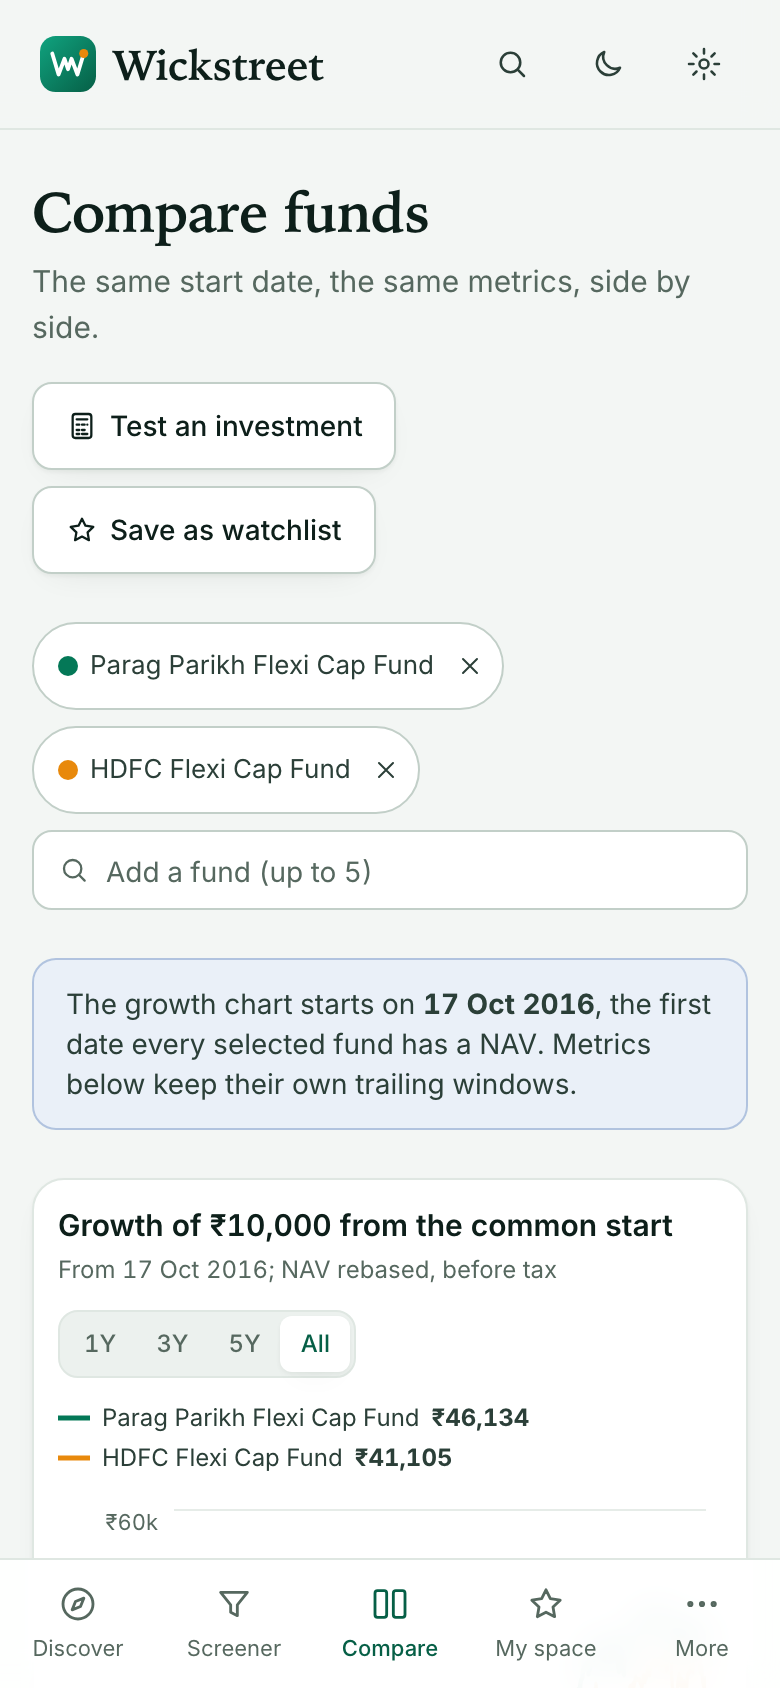
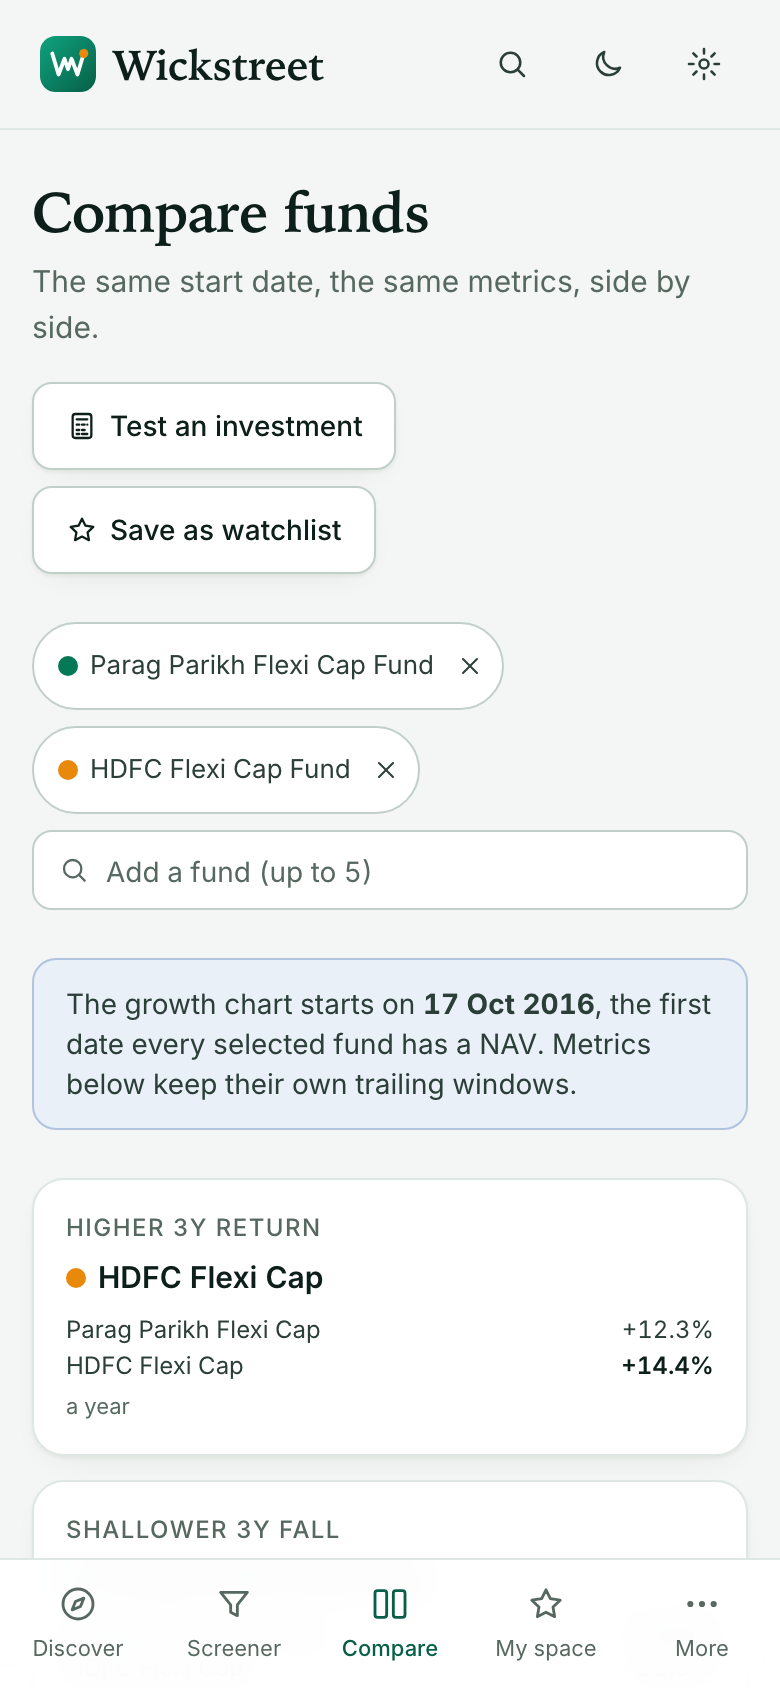
feat(wickstreet): compare and portfolio answer first
Compare opens with an At a glance strip: the stronger fund for return,
fall, cost and benchmark, with every value, and shared holdings. With
no statement, Portfolio shows what it will compute, how to get a CAS
and two tools that work at once, and says the reader is tested on
sample statements.

Changed region(s): [[0.0615, 0.7085, 0.8615, 0.9242], [0.8, 0.7701, 0.9231, 0.8318]]

diff --git a/web/src/features/mf/routes/portfolio.tsx b/web/src/features/mf/routes/portfolio.tsx
@@ -10,7 +10,9 @@ import { Link } from 'react-router';
 import { mfApi, type CasPreview, type PortfolioView } from '../api';
 import { ShareBar, Weights } from '../components/fund/Holdings';
 import { ScoreBadge } from '../components/ScoreBadge';
+import { I } from '../components/icons';
 import { Badge, Button, Card, Delta, EmptyState, ErrorState, Field, PageHeader, Skeleton, Stat, inputClass, useTitle } from '../components/ui';
+import { startingFunds, useRecentFunds } from '../context';
 import { categoryShort, date, inr, isNum, pct, schemeName } from '../format';
 
 async function asBase64(file: File): Promise<string> {
@@ -39,7 +41,7 @@ function ImportCard({ onDone }: { onDone: () => void }) {
     <Card title="Import a consolidated account statement" subtitle="A CAMS or KFintech CAS PDF. It is read on this machine; the file and password are never stored, only a hash of the file.">
       <div className="grid gap-3 sm:grid-cols-[minmax(0,1fr)_minmax(0,14rem)_auto] sm:items-end">
         <Field label="CAS file (PDF)">
-          <input className={inputClass} type="file" accept="application/pdf,.pdf" onChange={(e) => { setFile(e.target.files?.[0] ?? null); setPreview(null); }} />
+          <input className={`${inputClass} h-auto py-1.5 file:mr-3 file:rounded-control file:border-0 file:bg-mf-brand-soft file:px-3 file:py-1.5 file:text-sm file:font-medium file:text-mf-brand-strong hover:file:bg-mf-brand hover:file:text-mf-on-brand`} type="file" accept="application/pdf,.pdf" onChange={(e) => { setFile(e.target.files?.[0] ?? null); setPreview(null); }} />
         </Field>
         <Field label="Password" hint="Usually your PAN, as the statement email says.">
           <input className={inputClass} type="password" autoComplete="off" value={password} onChange={(e) => setPassword(e.target.value)} />
@@ -75,6 +77,53 @@ function ImportCard({ onDone }: { onDone: () => void }) {
         </div>
       )}
     </Card>
+  );
+}
+
+/** Before a statement: what the page will show, how to get a CAS, and what works now. */
+function PortfolioStart() {
+  const recent = useRecentFunds();
+  const start = startingFunds(recent, 5);
+  const compare = `/mf/compare?${start.codes.map((c) => `code=${c}`).join('&')}`;
+  return (
+    <section aria-label="Get started" className="grid gap-4 lg:grid-cols-3">
+      <Card title="What you will see" subtitle="Computed on this machine from your statement">
+        <ul className="space-y-2 text-sm text-mf-ink-soft">
+          {['Your XIRR on your own cash flows', 'Value, gain and what your expense ratios cost a year', 'Asset and category mix', 'Look-through holdings and overlap', 'Higher-ranked funds in the same categories', 'A plan to rebalance to your target mix'].map((t) => (
+            <li key={t} className="flex gap-2">
+              <I.check className="mt-0.5 h-4 w-4 shrink-0 text-mf-brand" />
+              {t}
+            </li>
+          ))}
+        </ul>
+        <p className="mt-3 text-xs text-mf-muted">The statement reader is tested on sample statements. Check the preview against your statement before you import.</p>
+      </Card>
+      <Card title="Get a detailed CAS" subtitle="Free, by email, in a few minutes">
+        <ol className="space-y-2.5 text-sm text-mf-ink-soft">
+          <li><b className="text-mf-ink">1.</b> Request a consolidated account statement from <a className="font-medium text-mf-brand underline-offset-2 hover:underline" href="https://www.camsonline.com" target="_blank" rel="noreferrer">CAMS</a>, <a className="font-medium text-mf-brand underline-offset-2 hover:underline" href="https://mfs.kfintech.com" target="_blank" rel="noreferrer">KFintech</a> or <a className="font-medium text-mf-brand underline-offset-2 hover:underline" href="https://www.mfcentral.com" target="_blank" rel="noreferrer">MF Central</a>.</li>
+          <li><b className="text-mf-ink">2.</b> Choose the detailed statement with every transaction, for all folios, from the start.</li>
+          <li><b className="text-mf-ink">3.</b> Import the PDF above with the password the statement email names.</li>
+        </ol>
+      </Card>
+      <Card title="Start now, without a statement">
+        <div className="space-y-2.5">
+          <Link to={compare} className="mf-lift flex items-start gap-3 rounded-[12px] border border-mf-line p-3 hover:border-mf-brand/40">
+            <I.compare className="mt-0.5 h-5 w-5 shrink-0 text-mf-brand" />
+            <span>
+              <span className="block text-sm font-medium text-mf-ink">Do my funds overlap?</span>
+              <span className="block text-xs text-mf-muted">Compare up to five funds: returns, falls, costs and shared holdings.{start.example ? ' Starts with example funds.' : ' Starts with the funds you opened last.'}</span>
+            </span>
+          </Link>
+          <Link to="/mf/simulate" className="mf-lift flex items-start gap-3 rounded-[12px] border border-mf-line p-3 hover:border-mf-brand/40">
+            <I.lab className="mt-0.5 h-5 w-5 shrink-0 text-mf-brand" />
+            <span>
+              <span className="block text-sm font-medium text-mf-ink">What would my SIP have made?</span>
+              <span className="block text-xs text-mf-muted">Replay a SIP, lump sum or withdrawal plan on real NAVs, with tax.</span>
+            </span>
+          </Link>
+        </div>
+      </Card>
+    </section>
   );
 }
 
@@ -272,7 +321,7 @@ export default function Portfolio() {
       ) : !view.data ? (
         <Skeleton className="h-64" />
       ) : view.data.imports.length === 0 ? (
-        <EmptyState title="No statement imported yet">Download a detailed CAS from CAMS, KFintech or MF Central and import it above.</EmptyState>
+        <PortfolioStart />
       ) : (
         <>
           <Analysis view={view.data} />

diff --git a/web/src/features/mf/routes/compare.tsx b/web/src/features/mf/routes/compare.tsx
@@ -9,6 +9,7 @@ import { pctTick } from '../axis';
 import { ChartFrame, LegendDot, PeerScatter, TimeChart, mergeSeries, thin } from '../components/charts';
 import { startingFunds, useRecentFunds } from '../context';
 import { rebase } from '../series';
+import type { Missing } from '../api';
 import { FundSearch } from '../components/FundSearch';
 import { I } from '../components/icons';
 import { ScoreBadge } from '../components/ScoreBadge';
@@ -222,6 +223,7 @@ export default function Compare() {
           {example && (
             <p className="text-sm text-mf-muted">These are example funds. Remove them and add your own, or use the compare button on any fund.</p>
           )}
+          <AtAGlance funds={funds} codes={codes} dataRevision={dataRevision} />
           <ChartFrame
             title={period === 'All' ? 'Growth of ₹10,000 from the common start' : `Growth of ₹10,000 over ${period}`}
             subtitle={`From ${date(series[0]?.points[0]?.[0])}; NAV rebased, before tax`}
@@ -356,6 +358,74 @@ export default function Compare() {
         </div>
       )}
     </div>
+  );
+}
+
+type CompareFund = { amfi_code: string; name: string; values: Record<string, unknown>; states: Record<string, Missing> };
+
+/**
+ * The answer first: for each question an investor asks of a comparison, the stronger
+ * fund and every fund's value. Details follow in the chart and the table.
+ */
+function AtAGlance({ funds, codes, dataRevision }: { funds: CompareFund[]; codes: string[]; dataRevision?: number }) {
+  const overlap = useOverlap(codes, dataRevision);
+  const questions: { title: string; id: string; better: 'higher' | 'lower'; digits?: number; note?: string }[] = [
+    { title: 'Higher 3Y return', id: 'cagr_3y', better: 'higher', note: 'a year' },
+    { title: 'Shallower 3Y fall', id: 'mdd_3y', better: 'higher', note: 'peak to trough' },
+    { title: 'Lower cost', id: 'ter', better: 'lower', digits: 2, note: 'expense ratio a year' },
+    { title: 'Ahead of benchmark', id: 'excess_3y', better: 'higher', note: 'a year over its own benchmark, 3Y' },
+  ];
+  const pair = overlap.data?.pairs.filter((q) => isNum(q.weighted_overlap)).sort((x, y) => (y.weighted_overlap ?? 0) - (x.weighted_overlap ?? 0))[0];
+  const short = (name: string) => schemeName(name).replace(/ Fund$/, '');
+  return (
+    <ul className="grid gap-3 sm:grid-cols-2 xl:grid-cols-5" aria-label="At a glance">
+      {questions.map((q) => {
+        const known = funds.map((f, i) => ({ f, i, v: f.values[q.id] })).filter((x): x is { f: CompareFund; i: number; v: number } => isNum(x.v));
+        const best = known.length > 1 ? known.reduce((a, b) => ((q.better === 'higher' ? b.v > a.v : b.v < a.v) ? b : a)) : null;
+        return (
+          <li key={q.id} className="mf-lift rounded-card border border-mf-line bg-mf-surface p-4 shadow-card">
+            <p className="text-xs font-medium uppercase tracking-[0.06em] text-mf-muted">{q.title}</p>
+            {best ? (
+              <>
+                <p className="mt-1.5 flex items-center gap-1.5 text-[15px] font-semibold text-mf-ink">
+                  <span className="h-2.5 w-2.5 shrink-0 rounded-full" style={{ background: seriesColor(best.i) }} aria-hidden="true" />
+                  <span className="truncate" title={best.f.name}>{short(best.f.name)}</span>
+                </p>
+                <ul className="mt-1.5 space-y-0.5 text-xs text-mf-ink-soft">
+                  {known.map((x) => (
+                    <li key={x.f.amfi_code} className="flex justify-between gap-2">
+                      <span className="truncate">{short(x.f.name)}</span>
+                      <span className={cx('shrink-0 tabular', x === best && 'font-semibold text-mf-ink')}>{pct(x.v, q.digits ?? 1, q.id !== 'ter')}</span>
+                    </li>
+                  ))}
+                </ul>
+                <p className="mt-1 text-[11px] text-mf-muted">{q.note}</p>
+              </>
+            ) : (
+              <p className="mt-1.5 text-sm text-mf-muted">
+                Fewer than two funds have a value{funds[0] && !isNum(funds[0].values[q.id]) ? `: ${missingLabel(funds[0].states[q.id]).toLowerCase()}` : ''}.
+              </p>
+            )}
+          </li>
+        );
+      })}
+      <li className="mf-lift rounded-card border border-mf-line bg-mf-surface p-4 shadow-card">
+        <p className="text-xs font-medium uppercase tracking-[0.06em] text-mf-muted">Shared holdings</p>
+        {pair ? (
+          <>
+            <p className="mt-1.5 text-[15px] font-semibold text-mf-ink tabular">{pct(pair.weighted_overlap)} overlap</p>
+            <p className="mt-1.5 text-xs text-mf-ink-soft">{pair.common_count} securities in common; the most among these funds.</p>
+            <p className="mt-1 text-[11px] text-mf-muted">Portfolios of {date(pair.a_as_of)}{pair.same_month ? '' : ` and ${date(pair.b_as_of)}`}</p>
+          </>
+        ) : (
+          <p className="mt-1.5 text-sm text-mf-muted">
+            {overlap.isLoading
+              ? 'Reading portfolios…'
+              : `No stored portfolio for ${overlap.data?.funds.filter((f) => !f.as_of).map((f) => short(f.name)).join(', ') || 'two of these funds'}, so overlap cannot be read.`}
+          </p>
+        )}
+      </li>
+    </ul>
   );
 }
 

diff --git a/web/e2e/mf/compare-glance.spec.ts b/web/e2e/mf/compare-glance.spec.ts
@@ -1,0 +1,27 @@
+/**
+ * Compare answers first: the At a glance strip names the stronger fund per question,
+ * with every fund's value, and matches the compare API.
+ */
+import { FUND, expect, test } from './fixtures';
+
+const HDFC_FLEXI = '118955';
+
+test('At a glance names the stronger fund for return, fall, cost and benchmark', async ({ page, request }) => {
+  const data = await (await request.get(`/api/v1/mf/compare?code=${FUND}&code=${HDFC_FLEXI}`)).json();
+  const [a, b] = data.funds;
+  await page.setViewportSize({ width: 1440, height: 1000 });
+  await page.goto(`/mf/compare?code=${FUND}&code=${HDFC_FLEXI}`);
+  const glance = page.getByRole('list', { name: 'At a glance' });
+  await expect(glance).toBeVisible();
+  const winner = (id: string, better: 'higher' | 'lower') => {
+    const pick = better === 'higher' ? (a.values[id] >= b.values[id] ? a : b) : (a.values[id] <= b.values[id] ? a : b);
+    return pick.name.replace(/ - .*$/, '').replace(/ Fund$/, '');
+  };
+  for (const [title, id, better] of [['Higher 3Y return', 'cagr_3y', 'higher'], ['Shallower 3Y fall', 'mdd_3y', 'higher'], ['Lower cost', 'ter', 'lower']] as const) {
+    const card = glance.getByRole('listitem').filter({ hasText: title });
+    await expect(card.locator('p').nth(1)).toContainText(winner(id, better).split(' ').slice(0, 2).join(' '));
+  }
+  // The strip and the growth chart are both in the first desktop viewport.
+  const box = await page.getByText('Growth of ₹10,000 from the common start').boundingBox();
+  expect(box && box.y).toBeLessThan(1000);
+});

diff --git a/docs/plans/wickstreet-2/execution-ledger.md b/docs/plans/wickstreet-2/execution-ledger.md
@@ -20,6 +20,7 @@ Every backlog item also uses the product-wide interaction rule in [the design sy
 
 ## Current milestone evidence
 
+- Premium transformation, milestone 2 (2026-10-24): Compare and Portfolio answer first. Compare opens with an "At a glance" strip above the chart: higher 3Y return, shallower 3Y fall, lower cost, ahead of benchmark, each naming the stronger fund with every fund's value, plus shared holdings (or which fund has no stored portfolio). Chart window stays in the URL (`?period=`). Portfolio with no statement now shows what the analysis computes, three steps to a detailed CAS, and two tools that work at once (overlap via Compare, SIP replay); it says the reader is tested on sample statements. New `e2e/mf/compare-glance.spec.ts` checks the strip against `/compare`. MF E2E 82/82, vitest 216/216.
 - Premium transformation, milestone 1 (2026-10-24): design tokens and the fund dossier. New default palette in `theme/themes.ts` (emerald `#047857`/`#34D399`, saffron accent, per-mode shadows, radii 10/16/20); `themes.test.ts` now fails any text role under WCAG AA. Shared primitives refreshed (gradient primary button, solid selected chip, bolder tabs, hover lift). The fund overview opens with "Growth of ₹10,000" beside a new Key facts card: TER, AUM, riskometer, Tier 1 benchmark, managers and portfolio, each with its AMFI or filing date; a missing value says why. Verdict prose moved from the hero to a "What happened" card. Desktop 1440×1000: all six facts and the chart in the first viewport (before: none; new `e2e/mf/fund-dossier.spec.ts`). `ScoreRing` no longer overflows at 44 px. Mobile Fund Overview median LCP 2.26 s, CLS 0.058, 541 kB (budget LCP ≤ 3 s, CLS ≤ 0.10; before 2.31 s, 0.070, 522 kB). MF E2E 81/81, vitest 216/216. Screens: `ui-ux/premium-2026-10-24/screens/{before,after}/` (7 routes × desktop/phone × light/dark). Independent review pending.
 - Screener Basic mode refines every field inline (2026-10-24). Showing a metric opens its control at once: a range for numbers and dates, a checklist for enums, Any/Yes/No for a flag. No operator, date or dialog. A preset's `>=` and `<=` merge into one editable range. Chips open the inline control; only top/bottom share, "none of", missing-value and group conditions open the full editor. `/screener/fields` now gives each number field its snapshot range (`Snapshot.ranges`), shown as "Snapshot values run from −98.9% to 93.6%". Measured on real data: Show Return 1Y = 1 click (545 ms to visible column); a −10% minimum = 0 further clicks plus one entry (46 → 37 funds; was 1 click). A shown or filtered metric is now the first data column. MF E2E 80/80, vitest 215/215, backend screening + analytics 72/72; axe clean on open refine rows. Governing principle added to `CLAUDE.md` ("Product UX: Adapt to the User").
 - `backend/src/wickstreet/mf_data/infrastructure/amc.py` registers 21 manual sources and never fetches them.
